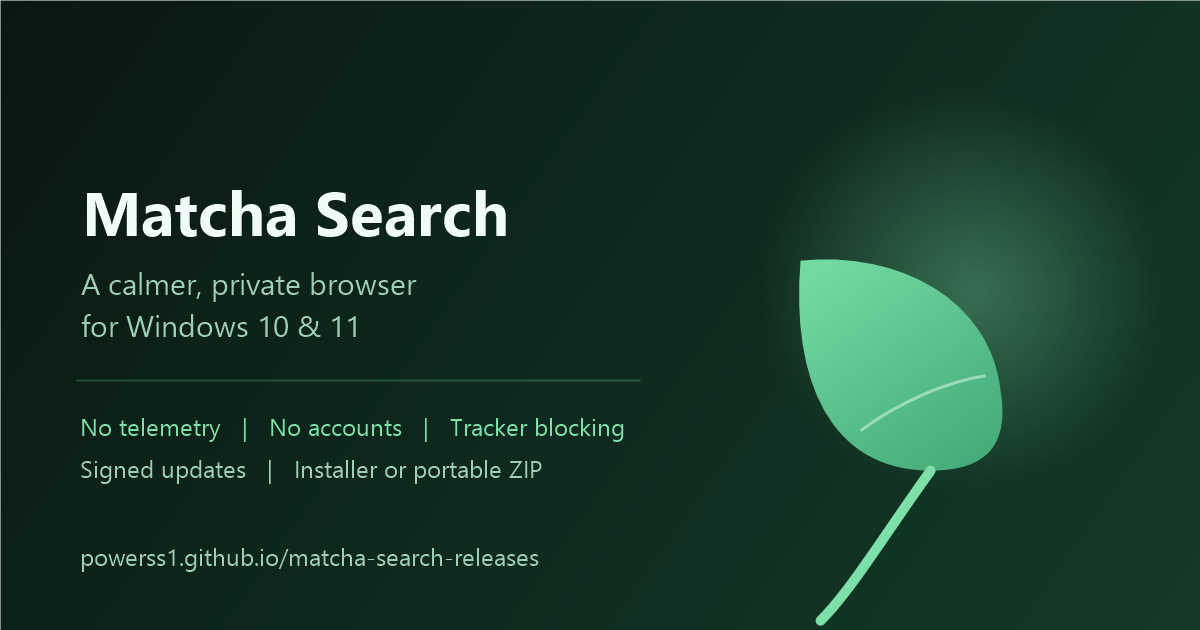
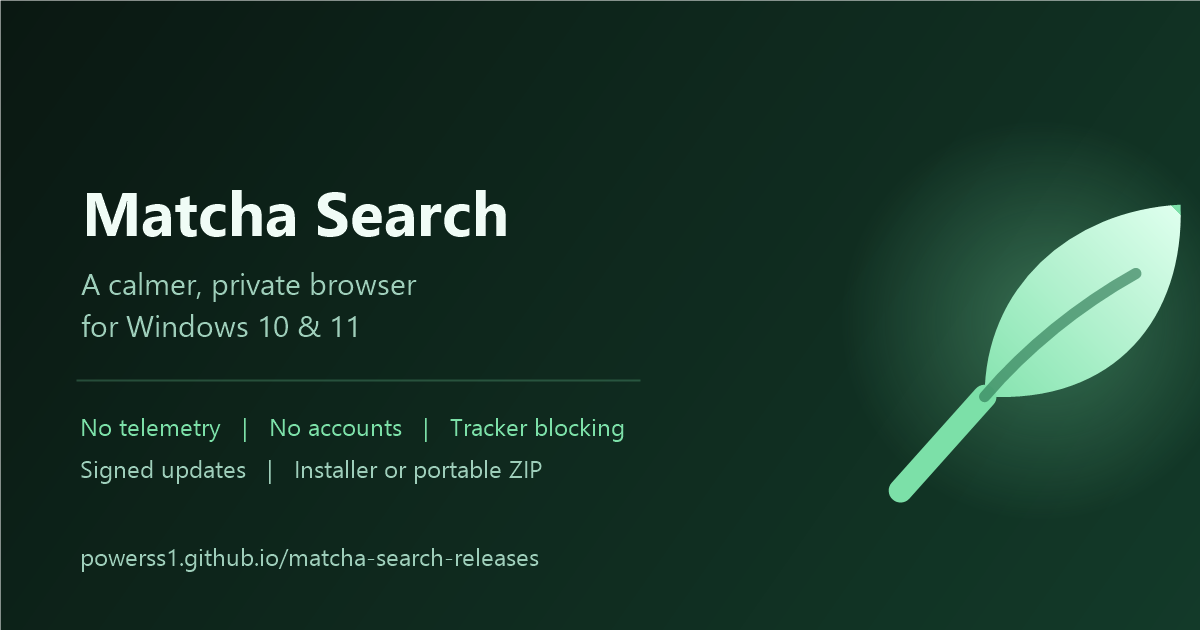
Publish Matcha Search 1.1.6
Point the landing pages at the 1.1.6 installer and portable ZIP with new
hashes, refresh the tab strip and new tab screenshots for the redesign,
and ship the corrected leaf mark in og.png.

Changed region(s): [[0.6475, 0.3016, 0.9867, 0.8444], [0.7092, 0.8444, 0.74, 0.9349], [0.6783, 0.9349, 0.7092, 0.9952]]

diff --git a/index.html b/index.html
@@ -30,7 +30,7 @@
   "name": "Matcha Search",
   "applicationCategory": "BrowserApplication",
   "operatingSystem": "Windows 10, Windows 11",
-  "softwareVersion": "1.1.5",
+  "softwareVersion": "1.1.6",
   "url": "https://powerss1.github.io/matcha-search-releases/",
   "downloadUrl": "https://github.com/Powerss1/matcha-search-releases/releases/latest",
   "description": "Privacy-first Chromium shell for Windows with network-level tracker blocking, encrypted DNS, HTTPS-only transport and signed in-place updates. No accounts, no telemetry, no sync.",
@@ -287,7 +287,7 @@
         <a class="btn btn-ghost" href="#verify">Check the checksum</a>
       </div>
       <p class="meta-line">
-        Version <strong id="version">1.1.5</strong> ·
+        Version <strong id="version">1.1.6</strong> ·
         <span id="size">63 MB</span> ·
         Per-user install, no admin rights. Data stays in <code>%LOCALAPPDATA%\MatchaSearch</code>.
       </p>
@@ -296,11 +296,11 @@
     <div class="card ship-card">
       <div class="ship-head">
         <h2>Current build</h2>
-        <span class="pill" id="pill-version">v1.1.5</span>
+        <span class="pill" id="pill-version">v1.1.6</span>
       </div>
       <dl class="kv">
-        <dt>Installer</dt><dd id="file-name">MatchaSearch-setup-x64-1.1.5.exe</dd>
-        <dt>Portable</dt><dd id="zip-name">MatchaSearch-win-x64-1.1.5.zip</dd>
+        <dt>Installer</dt><dd id="file-name">MatchaSearch-setup-x64-1.1.6.exe</dd>
+        <dt>Portable</dt><dd id="zip-name">MatchaSearch-win-x64-1.1.6.zip</dd>
         <dt>Channel</dt><dd>Stable</dd>
         <dt>Manifest</dt><dd><a id="manifest-link" href="https://github.com/Powerss1/matcha-search-releases/releases/latest/download/latest.json">latest.json</a></dd>
       </dl>
@@ -323,7 +323,7 @@
     <div class="steps">
       <div class="card step">
         <h3>Installer (recommended)</h3>
-        <p>Download <code id="installer-name">MatchaSearch-setup-x64-1.1.5.exe</code>, run it, and launch from the Start menu. No admin prompt, per-user uninstall entry included.</p>
+        <p>Download <code id="installer-name">MatchaSearch-setup-x64-1.1.6.exe</code>, run it, and launch from the Start menu. No admin prompt, per-user uninstall entry included.</p>
       </div>
       <div class="card step">
         <h3>Portable ZIP</h3>
@@ -348,7 +348,7 @@
       <div>
         <h3>PowerShell check</h3>
         <p>Run this in the folder that holds the download. The printed hash must match the one on this page. For the portable package, use <code>MatchaSearch-win-x64-&lt;version&gt;.zip</code> instead.</p>
-        <pre>Get-FileHash .\MatchaSearch-setup-x64-1.1.5.exe -Algorithm SHA256 | Format-List</pre>
+        <pre>Get-FileHash .\MatchaSearch-setup-x64-1.1.6.exe -Algorithm SHA256 | Format-List</pre>
       </div>
     </div>
     <div class="steps">
@@ -427,27 +427,27 @@
     <h2>A look inside</h2>
     <p class="sub">The screenshots come from the shipped build.</p>
     <div class="shots">
-      <figure class="card shot"><img src="screenshots/newtab.png" alt="Matcha Search new tab page" loading="lazy"><figcaption>New tab · speed dial and privacy status</figcaption></figure>
+      <figure class="card shot"><img src="screenshots/newtab.png" alt="Matcha Search new tab page" loading="lazy"><figcaption>New tab · privacy status at a glance</figcaption></figure>
       <figure class="card shot"><img src="screenshots/settings.png" alt="Matcha Search settings" loading="lazy"><figcaption>Settings · theme and privacy switches</figcaption></figure>
       <figure class="card shot"><img src="screenshots/extensions.png" alt="Matcha Search extensions library" loading="lazy"><figcaption>Extensions · bundled catalog</figcaption></figure>
     </div>
   </section>
 
   <footer class="site">
-    <span>Matcha Search 1.1.5 · local by design. Closed-source build, published binaries.</span>
+    <span>Matcha Search 1.1.6 · local by design. Closed-source build, published binaries.</span>
     <span><a href="https://github.com/Powerss1/matcha-search-releases/releases">Releases</a> · <a href="https://github.com/Powerss1/matcha-search-releases">Repository</a></span>
   </footer>
 </div>
 
 <script>
   const fallback = {
-    version: '1.1.5',
-    setupUrl: 'https://github.com/Powerss1/matcha-search-releases/releases/download/v1.1.5/MatchaSearch-setup-x64-1.1.5.exe',
[1 lines of base64/hex data omitted]
-    setupSize: 46883014,
-    zipUrl: 'https://github.com/Powerss1/matcha-search-releases/releases/download/v1.1.5/MatchaSearch-win-x64-1.1.5.zip',
[1 lines of base64/hex data omitted]
-    zipSize: 65696572
+    version: '1.1.6',
+    setupUrl: 'https://github.com/Powerss1/matcha-search-releases/releases/download/v1.1.6/MatchaSearch-setup-x64-1.1.6.exe',
[1 lines of base64/hex data omitted]
+    setupSize: 46886876,
+    zipUrl: 'https://github.com/Powerss1/matcha-search-releases/releases/download/v1.1.6/MatchaSearch-win-x64-1.1.6.zip',
[1 lines of base64/hex data omitted]
+    zipSize: 65701756
   };
 
   const formatSize = (bytes) => {

diff --git a/tr/index.html b/tr/index.html
@@ -29,7 +29,7 @@
   "name": "Matcha Search",
   "applicationCategory": "BrowserApplication",
   "operatingSystem": "Windows 10, Windows 11",
-  "softwareVersion": "1.1.5",
+  "softwareVersion": "1.1.6",
   "inLanguage": "tr",
   "url": "https://powerss1.github.io/matcha-search-releases/tr/",
   "downloadUrl": "https://github.com/Powerss1/matcha-search-releases/releases/latest",
@@ -176,7 +176,7 @@
         <a class="btn btn-ghost" href="#verify">SHA-256 doğrula</a>
       </div>
       <p class="meta-line">
-        Sürüm <strong id="version">1.1.5</strong> ·
+        Sürüm <strong id="version">1.1.6</strong> ·
         <span id="size">45 MB</span> ·
         Yönetici izni gerekmez. Veriler <code>%LOCALAPPDATA%\MatchaSearch</code> altında kalır.
       </p>
@@ -185,11 +185,11 @@
     <div class="card ship-card">
       <div class="ship-head">
         <h2>Güncel sürüm</h2>
-        <span class="pill" id="pill-version">v1.1.5</span>
+        <span class="pill" id="pill-version">v1.1.6</span>
       </div>
       <dl class="kv">
-        <dt>Kurulum</dt><dd id="file-name">MatchaSearch-setup-x64-1.1.5.exe</dd>
-        <dt>Taşınabilir</dt><dd id="zip-name">MatchaSearch-win-x64-1.1.5.zip</dd>
+        <dt>Kurulum</dt><dd id="file-name">MatchaSearch-setup-x64-1.1.6.exe</dd>
+        <dt>Taşınabilir</dt><dd id="zip-name">MatchaSearch-win-x64-1.1.6.zip</dd>
         <dt>Kanal</dt><dd>Kararlı</dd>
         <dt>Manifest</dt><dd><a id="manifest-link" href="https://github.com/Powerss1/matcha-search-releases/releases/latest/download/latest.json">latest.json</a></dd>
       </dl>
@@ -212,7 +212,7 @@
     <div class="steps">
       <div class="card step">
         <h3>Kurulum dosyası (önerilen)</h3>
-        <p><code id="installer-name">MatchaSearch-setup-x64-1.1.5.exe</code> dosyasını indirip çalıştırın, Başlat menüsünden açın. Yönetici izni istemez; kaldırma kaydı otomatik oluşur.</p>
+        <p><code id="installer-name">MatchaSearch-setup-x64-1.1.6.exe</code> dosyasını indirip çalıştırın, Başlat menüsünden açın. Yönetici izni istemez; kaldırma kaydı otomatik oluşur.</p>
       </div>
       <div class="card step">
         <h3>Taşınabilir ZIP</h3>
@@ -231,7 +231,7 @@
     <div class="card step" style="margin-bottom:16px">
       <h3>PowerShell ile kontrol</h3>
       <p style="margin-bottom:10px">Komutu indirdiğiniz dosyanın bulunduğu klasörde çalıştırın. Çıktı bu sayfadaki hash ile aynı olmalı. Taşınabilir paket için <code>MatchaSearch-win-x64-&lt;sürüm&gt;.zip</code> yazın.</p>
-      <pre>Get-FileHash .\MatchaSearch-setup-x64-1.1.5.exe -Algorithm SHA256 | Format-List</pre>
+      <pre>Get-FileHash .\MatchaSearch-setup-x64-1.1.6.exe -Algorithm SHA256 | Format-List</pre>
     </div>
     <div class="steps">
       <div class="card step">
@@ -283,26 +283,26 @@
     <h2>İçinden bir bakış</h2>
     <p class="sub">Görüntüler yayınlanan sürümden alınmıştır.</p>
     <div class="shots">
-      <figure class="card shot"><img src="../screenshots/newtab.png" alt="Matcha Search yeni sekme sayfası" loading="lazy"><figcaption>Yeni sekme · hızlı erişim ve gizlilik durumu</figcaption></figure>
+      <figure class="card shot"><img src="../screenshots/newtab.png" alt="Matcha Search yeni sekme sayfası" loading="lazy"><figcaption>Yeni sekme · gizlilik durumu tek bakışta</figcaption></figure>
       <figure class="card shot"><img src="../screenshots/settings.png" alt="Matcha Search ayarları" loading="lazy"><figcaption>Ayarlar · tema ve gizlilik anahtarları</figcaption></figure>
       <figure class="card shot"><img src="../screenshots/extensions.png" alt="Matcha Search eklenti kütüphanesi" loading="lazy"><figcaption>Eklentiler · cihazdaki katalog</figcaption></figure>
     </div>
   </section>
 
   <footer class="site">
-    <span>Matcha Search 1.1.5 · yerel tasarım. Kaynak kapalı, ikili dosyalar herkese açık.</span>
+    <span>Matcha Search 1.1.6 · yerel tasarım. Kaynak kapalı, ikili dosyalar herkese açık.</span>
     <span><a href="../">English</a> · <a href="https://github.com/Powerss1/matcha-search-releases/releases">Sürümler</a> · <a href="https://github.com/Powerss1/matcha-search-releases">Depo</a></span>
   </footer>
 </div>
 
 <script>
   const fallback = {
-    version: '1.1.5',
-    setupUrl: 'https://github.com/Powerss1/matcha-search-releases/releases/download/v1.1.5/MatchaSearch-setup-x64-1.1.5.exe',
[1 lines of base64/hex data omitted]
-    setupSize: 46883014,
-    zipUrl: 'https://github.com/Powerss1/matcha-search-releases/releases/download/v1.1.5/MatchaSearch-win-x64-1.1.5.zip',
-    zipSize: 65696572
+    version: '1.1.6',
+    setupUrl: 'https://github.com/Powerss1/matcha-search-releases/releases/download/v1.1.6/MatchaSearch-setup-x64-1.1.6.exe',
[1 lines of base64/hex data omitted]
+    setupSize: 46886876,
+    zipUrl: 'https://github.com/Powerss1/matcha-search-releases/releases/download/v1.1.6/MatchaSearch-win-x64-1.1.6.zip',
+    zipSize: 65701756
   };
 
   const formatSize = (bytes) => {
